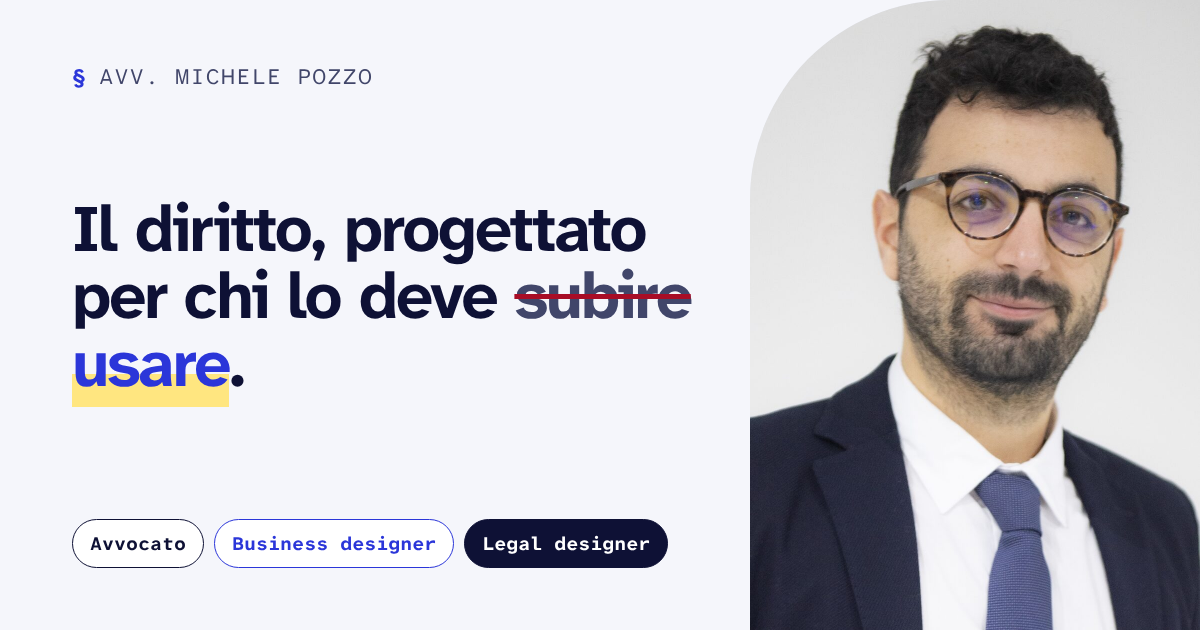
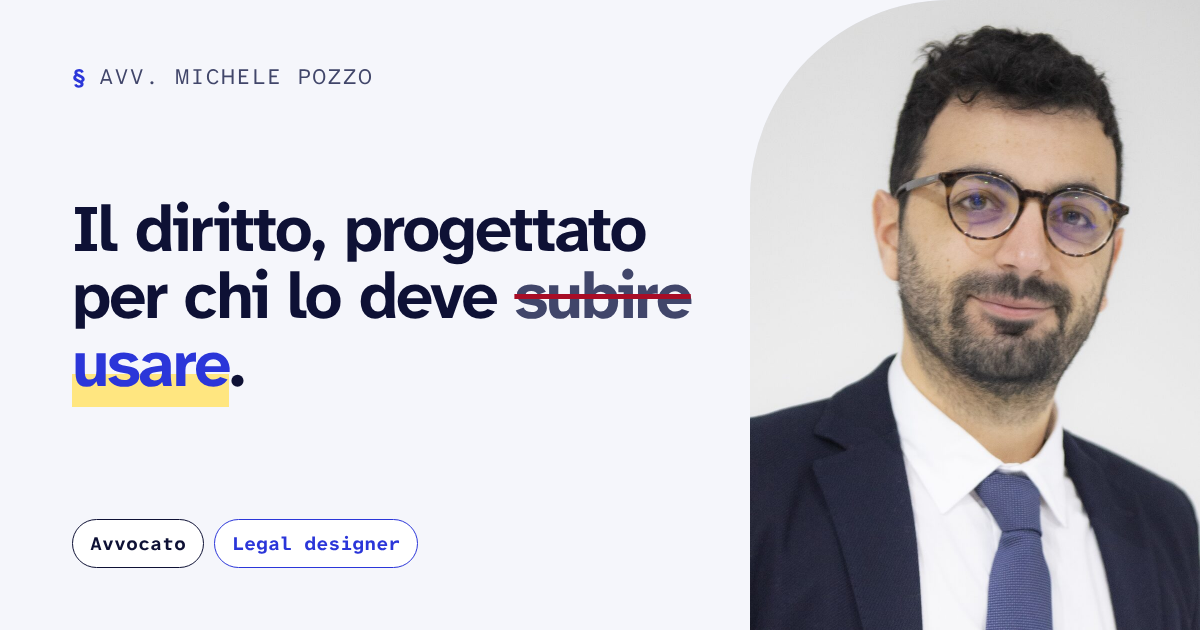
Remove the business designer role from the site
Keep two roles, avvocato and legal designer, in the header, hero, meta
tags, structured data, llms.txt and social image. The product card in the
crafts section is now labelled "Esperienza di prodotto".

Claude-Session: https://claude.ai/code/session_01QYbfgR6rqYyNEELet9pGwD

Changed region(s): [[0.185, 0.8143, 0.555, 0.9048]]

diff --git a/index.html b/index.html
@@ -3,8 +3,8 @@
 <head>
   <meta charset="utf-8">
   <meta name="viewport" content="width=device-width, initial-scale=1, viewport-fit=cover">
-  <title>Michele Pozzo · Avvocato, business designer e legal designer</title>
-  <meta name="description" content="Sono Michele Pozzo, avvocato, business designer e legal designer. Porto il diritto dentro le scelte di prodotto digitale: privacy by design, AI Act, accessibilità, dark pattern e Codice del Consumo. Guide gratuite e interventi.">
+  <title>Michele Pozzo · Avvocato e legal designer</title>
+  <meta name="description" content="Sono Michele Pozzo, avvocato e legal designer. Porto il diritto dentro le scelte di prodotto digitale: privacy by design, AI Act, accessibilità, dark pattern e Codice del Consumo. Guide gratuite e interventi.">
   <meta name="robots" content="index, follow, max-image-preview:large, max-snippet:-1">
   <link rel="canonical" href="https://mikpozzo93.github.io/sitoweb2/">
   <link rel="alternate" hreflang="it" href="https://mikpozzo93.github.io/sitoweb2/">
@@ -15,17 +15,17 @@
   <meta property="og:type" content="profile">
   <meta property="og:locale" content="it_IT">
   <meta property="og:site_name" content="Michele Pozzo">
-  <meta property="og:title" content="Michele Pozzo · Avvocato, business designer e legal designer">
+  <meta property="og:title" content="Michele Pozzo · Avvocato e legal designer">
   <meta property="og:description" content="Il diritto, progettato per chi lo deve usare. Legal design e compliance dentro i prodotti digitali, materiali gratuiti e interventi.">
   <meta property="og:url" content="https://mikpozzo93.github.io/sitoweb2/">
   <meta property="og:image" content="https://mikpozzo93.github.io/sitoweb2/assets/img/og-image.png">
   <meta property="og:image:width" content="1200">
   <meta property="og:image:height" content="630">
-  <meta property="og:image:alt" content="Michele Pozzo, avvocato, business designer e legal designer">
+  <meta property="og:image:alt" content="Michele Pozzo, avvocato e legal designer">
   <meta property="profile:first_name" content="Michele">
   <meta property="profile:last_name" content="Pozzo">
   <meta name="twitter:card" content="summary_large_image">
-  <meta name="twitter:title" content="Michele Pozzo · Avvocato, business designer e legal designer">
+  <meta name="twitter:title" content="Michele Pozzo · Avvocato e legal designer">
   <meta name="twitter:description" content="Il diritto, progettato per chi lo deve usare. Legal design e compliance dentro i prodotti digitali.">
   <meta name="twitter:image" content="https://mikpozzo93.github.io/sitoweb2/assets/img/og-image.png">
 
@@ -44,7 +44,7 @@
         "@id": "https://mikpozzo93.github.io/sitoweb2/#michele-pozzo",
         "name": "Michele Pozzo",
         "honorificPrefix": "Avv.",
-        "jobTitle": ["Avvocato", "Business designer", "Legal designer"],
+        "jobTitle": ["Avvocato", "Legal designer"],
         "url": "https://mikpozzo93.github.io/sitoweb2/",
         "image": "https://mikpozzo93.github.io/sitoweb2/assets/img/foto/michele-pozzo-ritratto.jpg",
         "email": "mailto:ciao@michelepozzo.digital",
@@ -74,7 +74,7 @@
         "@type": "ProfilePage",
         "@id": "https://mikpozzo93.github.io/sitoweb2/#webpage",
         "url": "https://mikpozzo93.github.io/sitoweb2/",
-        "name": "Michele Pozzo · Avvocato, business designer e legal designer",
+        "name": "Michele Pozzo · Avvocato e legal designer",
         "inLanguage": "it-IT",
         "isPartOf": { "@id": "https://mikpozzo93.github.io/sitoweb2/#website" },
         "mainEntity": { "@id": "https://mikpozzo93.github.io/sitoweb2/#michele-pozzo" }
@@ -118,7 +118,7 @@
   <div class="wrap header-inner">
     <a class="brand" href="#top" aria-label="Michele Pozzo, torna all'inizio">
       <span class="brand-mark" aria-hidden="true">MP</span>
-      <span class="brand-text">Michele Pozzo <small>Avvocato · BD · Legal designer</small></span>
+      <span class="brand-text">Michele Pozzo <small>Avvocato · Legal designer</small></span>
     </a>
     <button class="nav-toggle" type="button" aria-expanded="false" aria-controls="nav" aria-label="Apri il menu">
       <svg aria-hidden="true"><use href="#i-menu"/></svg>
@@ -144,9 +144,8 @@
         <p class="eyebrow">Avv. Michele Pozzo</p>
         <h1 class="hero-title" id="hero-title">Il diritto, progettato per chi lo deve <span class="strike">subire</span> <ins>usare</ins>.</h1>
         <p class="lead">Sono avvocato e da quasi dieci anni lavoro nel product management di prodotti digitali. Porto le regole dentro le scelte di prodotto, al momento giusto e con il linguaggio del destinatario.</p>
-        <ul class="roles" aria-label="I miei tre mestieri">
+        <ul class="roles" aria-label="I miei mestieri">
           <li>Avvocato</li>
-          <li>Business designer</li>
           <li>Legal designer</li>
         </ul>
         <div class="hero-actions">
@@ -168,11 +167,11 @@
     </div>
   </section>
 
-  <!-- TRE MESTIERI -->
+  <!-- TRE COMPETENZE -->
   <section class="section section--alt" aria-labelledby="mestieri-title">
     <div class="wrap">
       <div class="section-head reveal">
-        <p class="eyebrow">Tre mestieri, un solo lavoro</p>
+        <p class="eyebrow">Tre competenze, un solo lavoro</p>
         <h2 class="h2" id="mestieri-title">Parlo la lingua del legale <em>e</em> quella di chi costruisce il prodotto.</h2>
         <p class="lead">In azienda queste due lingue faticano a capirsi. Il mio lavoro è tradurre tra le due, prima che un vincolo diventi un blocco.</p>
       </div>
@@ -187,7 +186,7 @@
           </p>
         </li>
         <li class="craft reveal">
-          <span class="craft-num">02 · Business designer</span>
+          <span class="craft-num">02 · Esperienza di prodotto</span>
           <h3 class="h3">So come nasce un prodotto</h3>
           <p>Backlog, sprint, user story, rilasci. So quando una scelta costa poco e quando invece rimette in discussione mesi di lavoro.</p>
           <p class="craft-redline" aria-label="Esempio">

diff --git a/README.md b/README.md
@@ -1,4 +1,4 @@
-# Michele Pozzo · Avvocato, business designer, legal designer
+# Michele Pozzo · Avvocato, legal designer
 
 Sito personale di Michele Pozzo. Statico, senza build e senza dipendenze: HTML, CSS e JavaScript puri. Nessun cookie, nessun tracciamento, nessuna risorsa di terze parti (il video YouTube si carica solo al clic).
 
@@ -29,8 +29,8 @@ llms.txt                   sintesi per i motori di risposta basati su AI
 
 | Ancora | Contenuto |
 | --- | --- |
-| `#top` | Hero con ritratto e i tre mestieri |
-| (senza ancora) | Tre mestieri, un solo lavoro: avvocato, business designer, legal designer |
+| `#top` | Hero con ritratto e i due mestieri |
+| (senza ancora) | Tre competenze, un solo lavoro: avvocato, esperienza di prodotto, legal designer |
 | `#chi-sono` | Biografia, punti chiave e "cosa non sono" |
 | `#temi` | Di cosa mi occupo: GDPR, AI Act, accessibilità, dark pattern, consumatori, identità digitale |
 | `#materiali` | I miei materiali: "Il Giurista Designer nel Prodotto", guida in PDF tratta dal webinar Exeen Talks |
